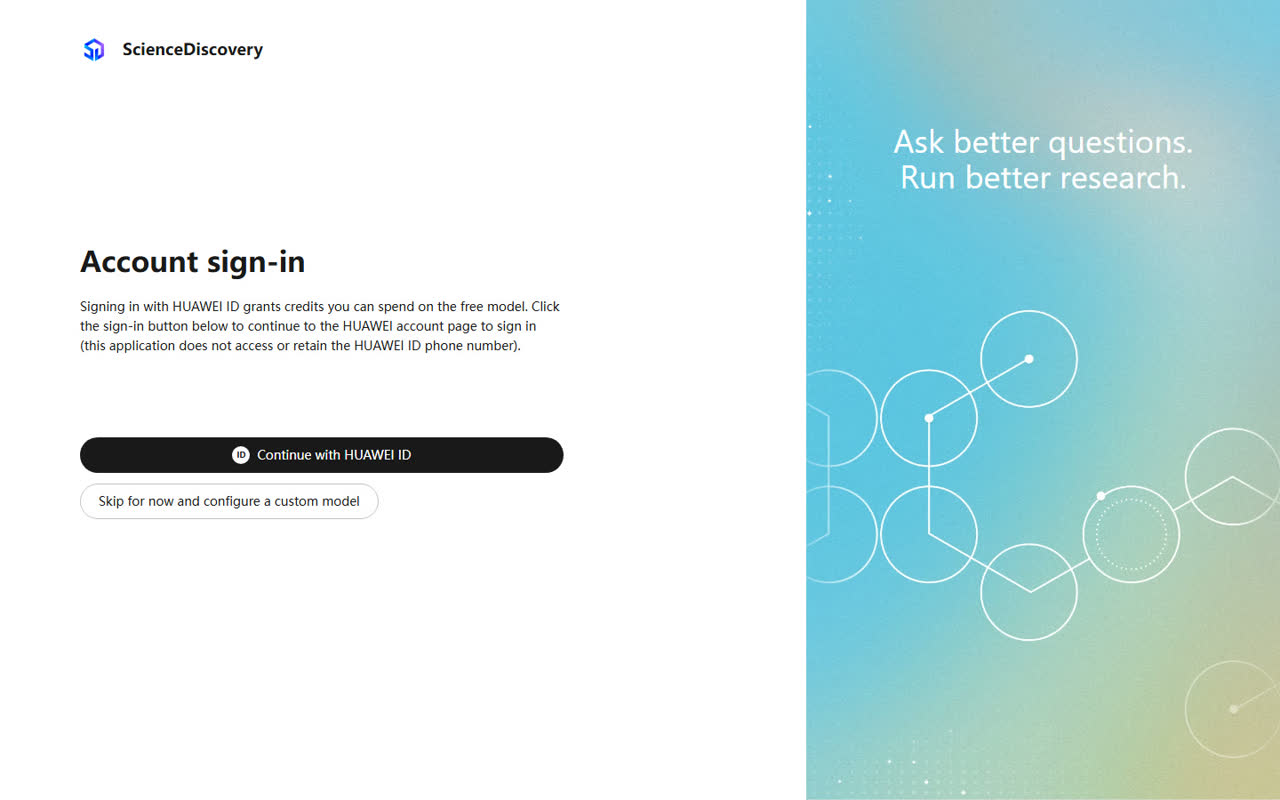
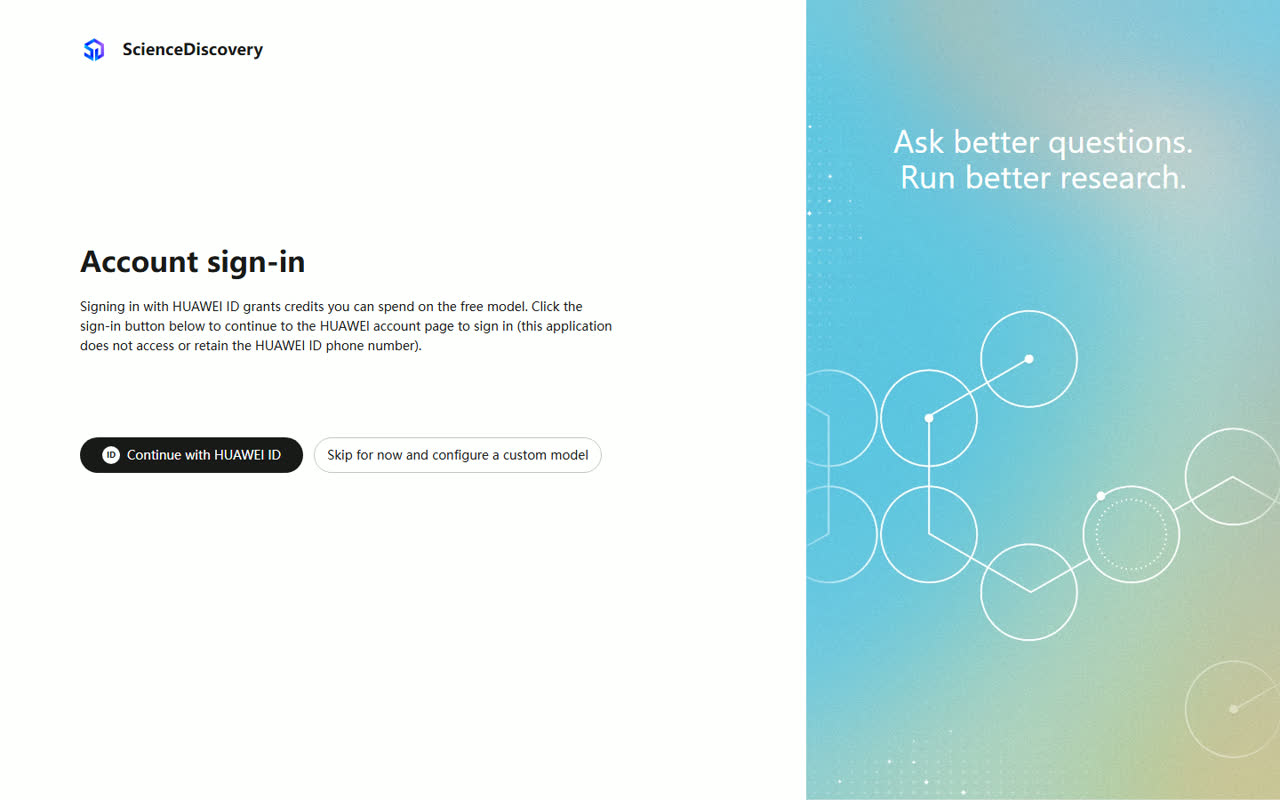
fix(desktop): keep the sign-in buttons on one row
The English copy wrapped the two entry buttons: the HUAWEI button grew to fill the row and pushed the skip button onto a second line. Size the HUAWEI button to its content and give the reading column room for both, so the sign-in page keeps one action row in both locales.

Changed region(s): [[0.0625, 0.5312, 0.4688, 0.6562], [0.0625, 0.375, 0.4688, 0.4375]]

diff --git a/apps/desktop/src/styles/login.css b/apps/desktop/src/styles/login.css
@@ -58,7 +58,7 @@
 
 .login-content {
   width: 100%;
-  max-width: 544px;
+  max-width: 600px;
   padding-top: clamp(72px, 12.2vh, 132px);
   padding-bottom: 64px;
 }
@@ -108,7 +108,7 @@
 }
 
 .login-entry-primary {
-  flex: 1 1 220px;
+  flex: 0 0 auto;
   min-width: 0;
 }
 
@@ -120,7 +120,7 @@
   gap: 8px;
   height: 40px;
   min-height: 40px;
-  padding: 0 20px;
+  padding: 0 14px;
   border: 1px solid var(--login-line);
   border-radius: 999px;
   background: #fff;
